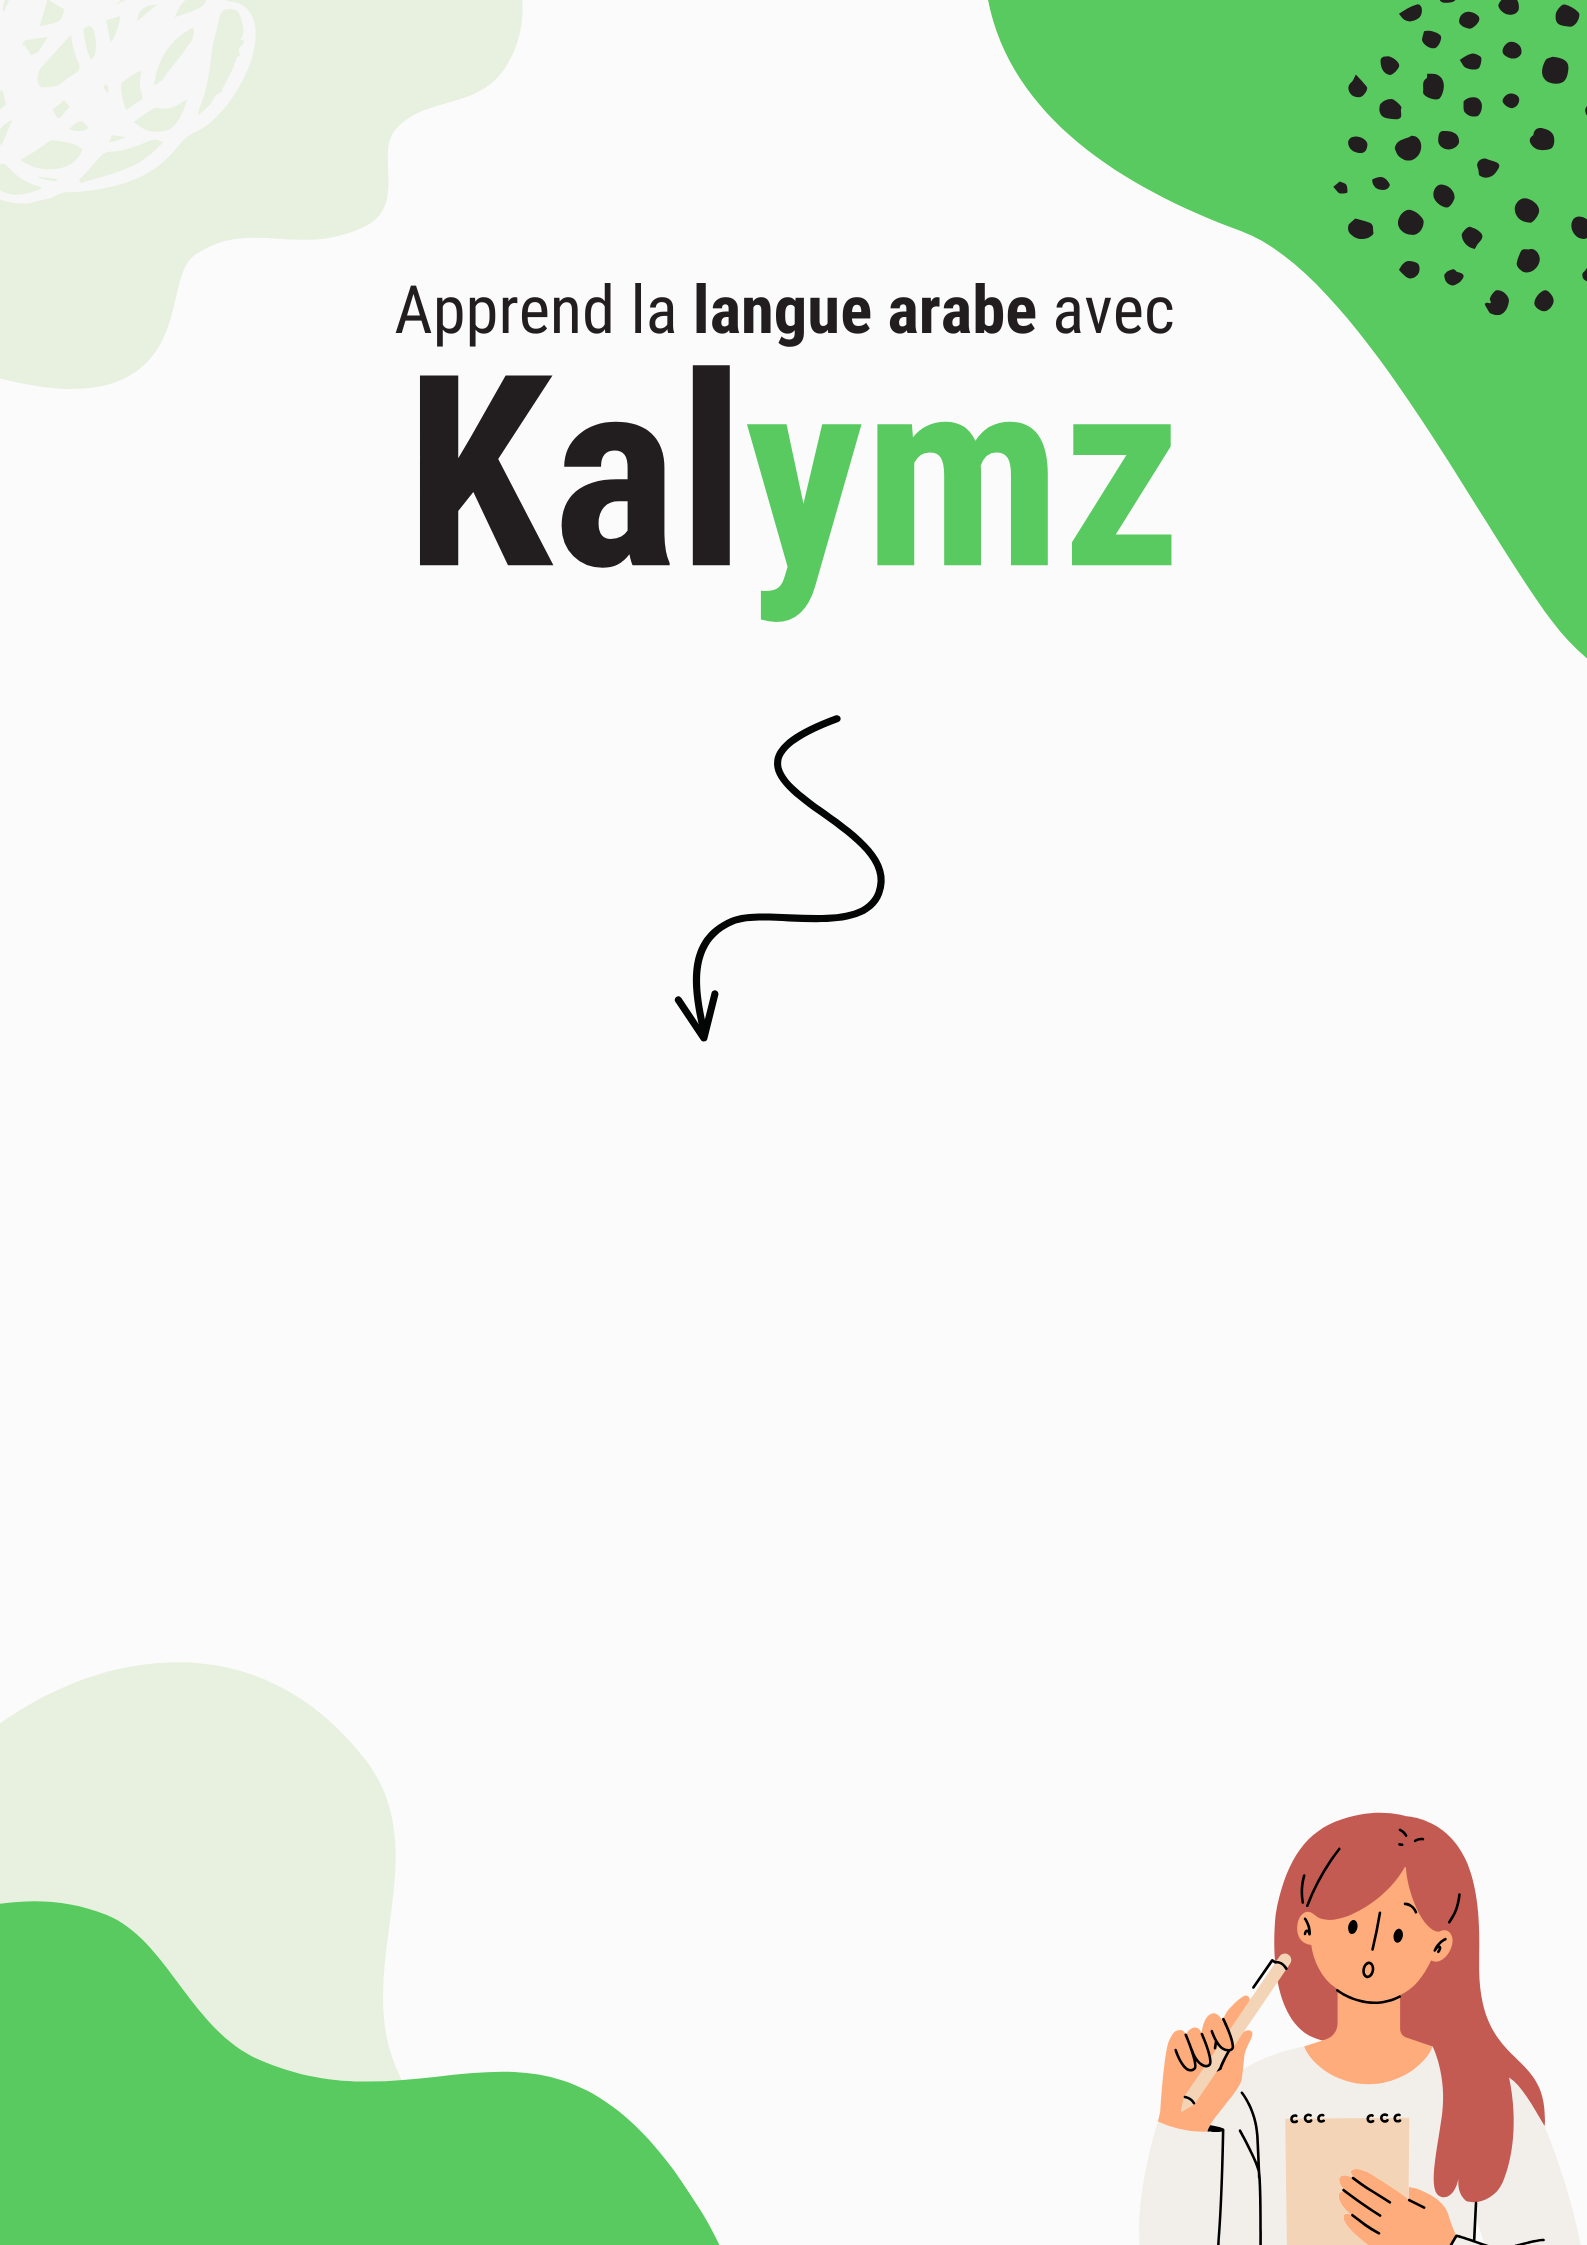
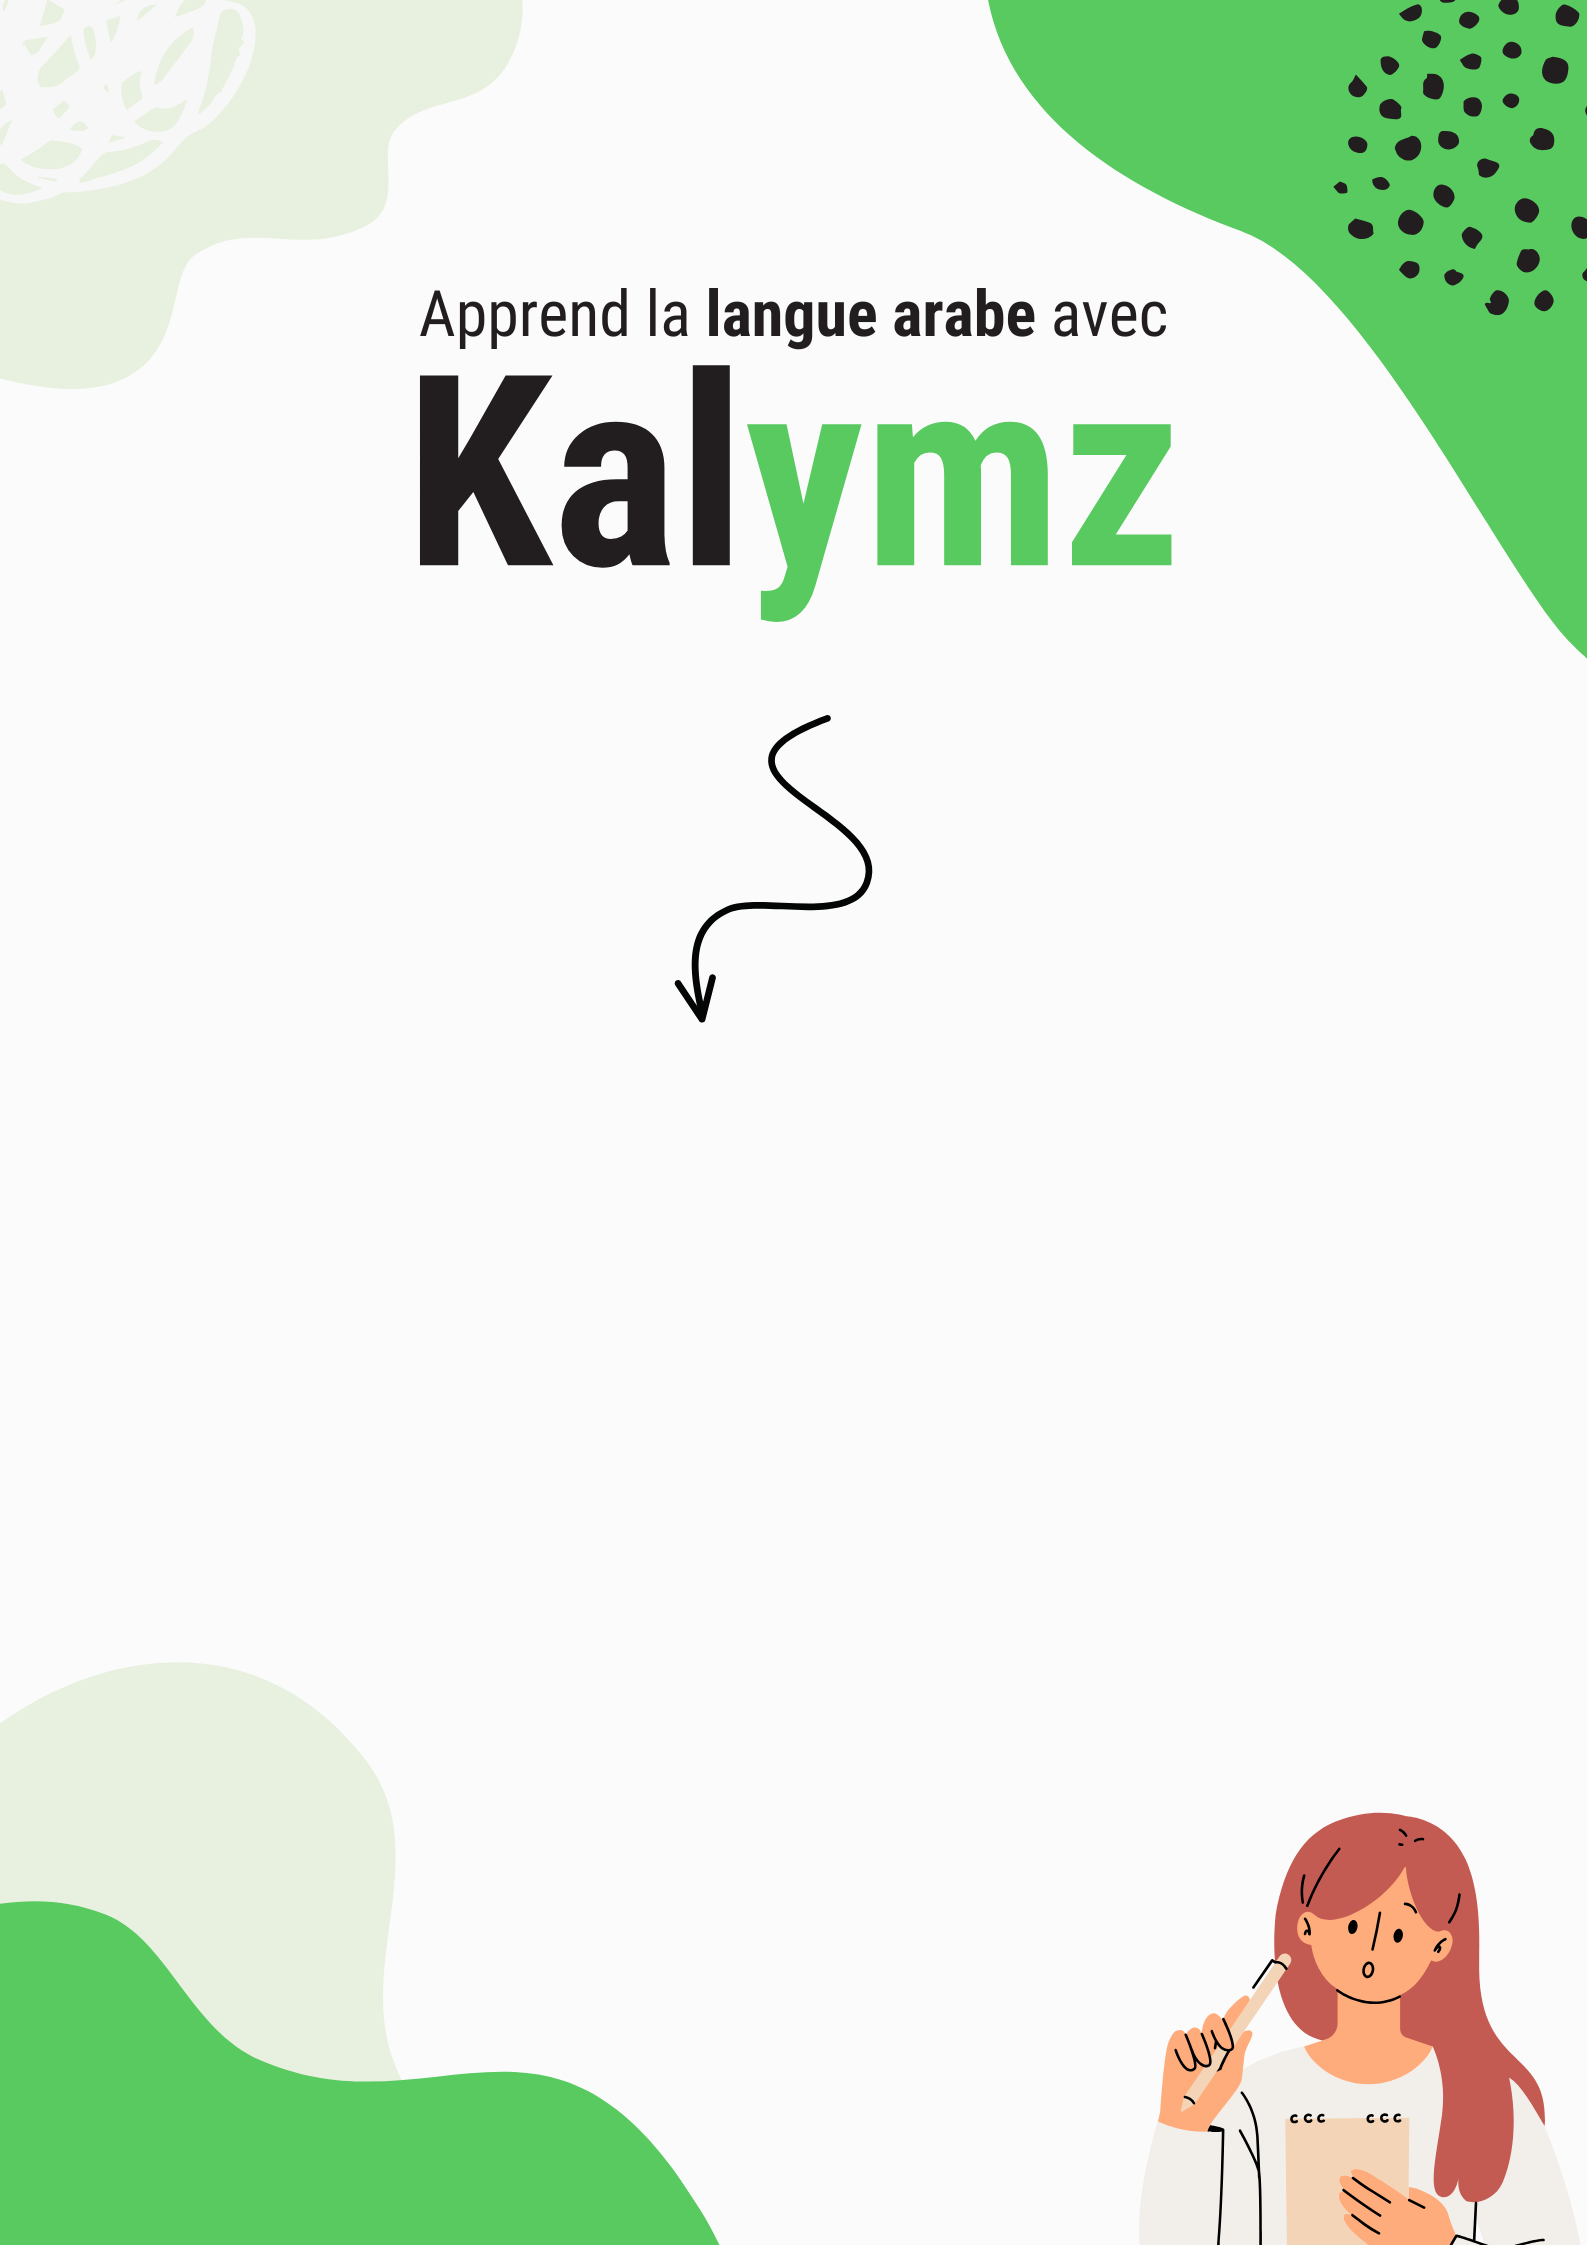
150 - Responsive : HomePage.vue

Changed region(s): [[0.247, 0.1247, 0.741, 0.1559], [0.4323, 0.3742, 0.5558, 0.4677], [0.4631, 0.3118, 0.5249, 0.343]]

diff --git a/resources/js/pages/HomePage.vue b/resources/js/pages/HomePage.vue
@@ -1,27 +1,13 @@
 <template>
-    <div
-        style="
-            position: absolute;
-            top: 50%;
-            left: 50%;
-            transform: translate(-50%, -50%);
-        "
-    >
+    <div style="margin-top: 9%; left: 50%">
         <h1>Kal<span style="color: #58ca60; font-weight: bold">ymz</span></h1>
 
         <div style="display: flex; justify-content: center">
             <section>
-                <p
-                    style="
-                        font-size: 21px;
-                        font-weight: normal;
-                        text-align: center;
-                    "
-                >
+                <p>
                     Chaque jour, lisez des articles arabe / français sur des
-                    sujets variés
-                    <br />
-                    avec des aides interactives pour enrichir votre vocabulaire.
+                    sujets variés avec des aides interactives pour enrichir
+                    votre vocabulaire.
                 </p>
             </section>
         </div>
@@ -55,5 +41,23 @@ export default {
 <style scoped>
 span {
     color: #58ca60;
+}
+
+p {
+    font-size: 21px;
+    font-weight: normal;
+    text-align: center;
+}
+section {
+    width: 550px;
+}
+
+@media (max-width: 640px) {
+    p {
+        font-size: 16px;
+    }
+    section {
+        width: 350px;
+    }
 }
 </style>
